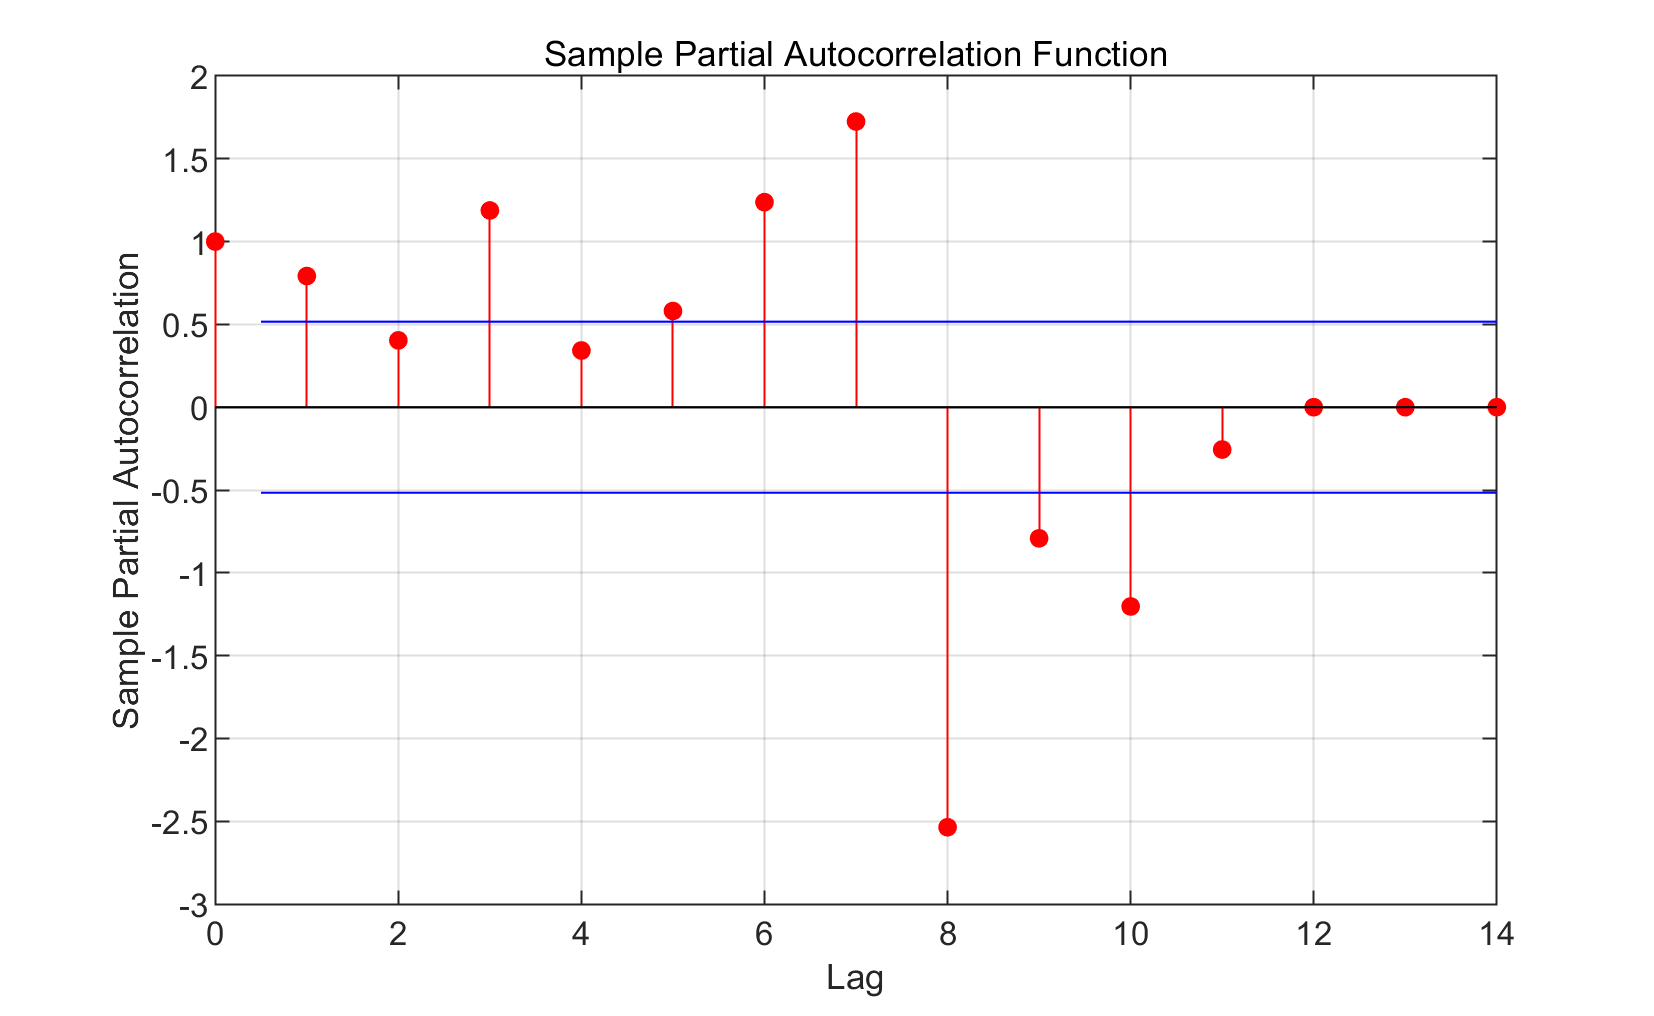
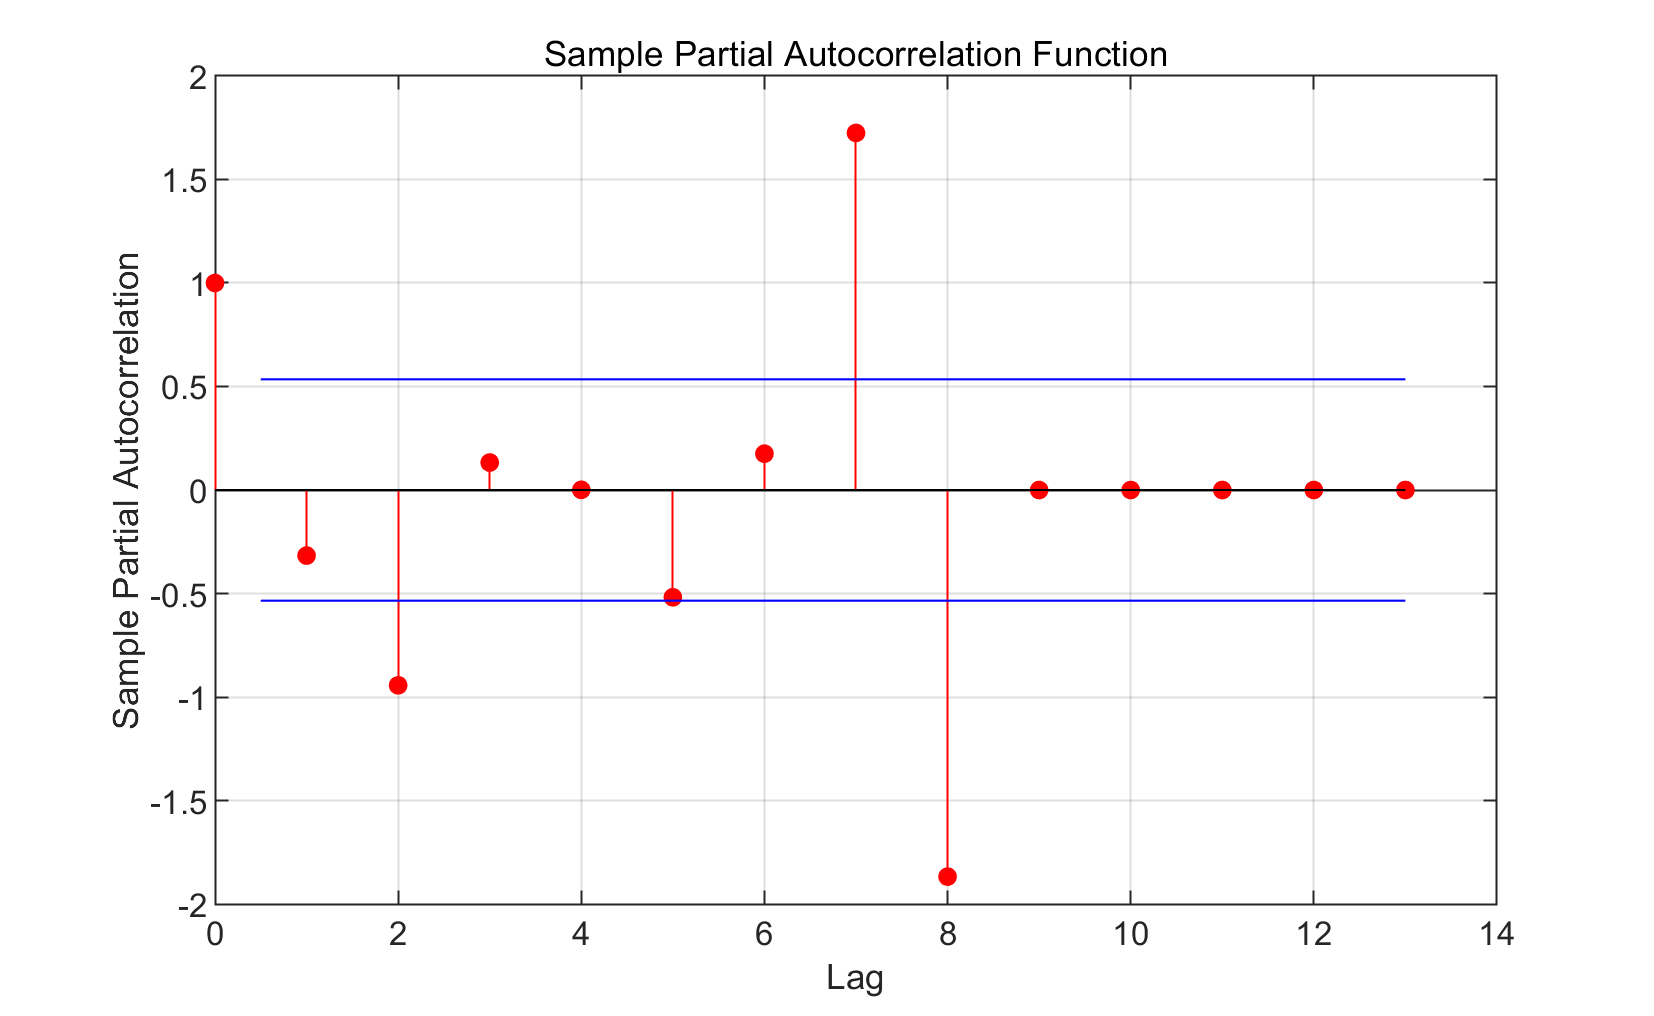
更正美国自相关和偏相关检验结果

diff --git a/src/main.m b/src/main.m
@@ -73,9 +73,9 @@ title("diff4");
 xlabel('t');
 %取阶数为2，做自相关和偏相关检验
 figure(6)
-autocorr(diff1USA(:,1));
+autocorr(diff2USA(:,1));
 figure(7)
-parcorr(diff1USA(:,1));
+parcorr(diff2USA(:,1));
 modelUSA=arima(2,12,1);
 test(modelUSA,trainUSA(:,1));
 
